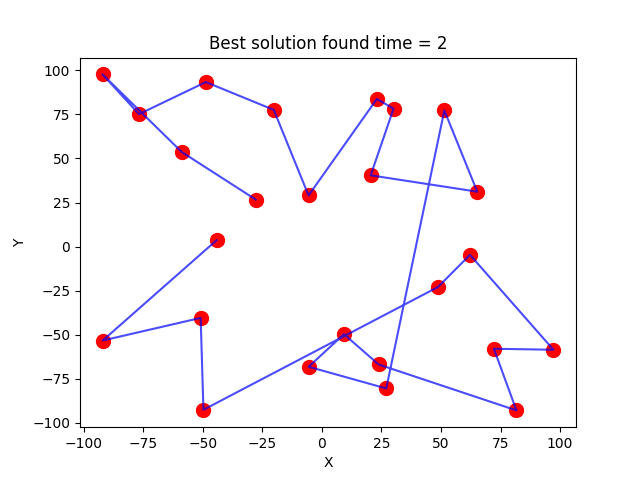
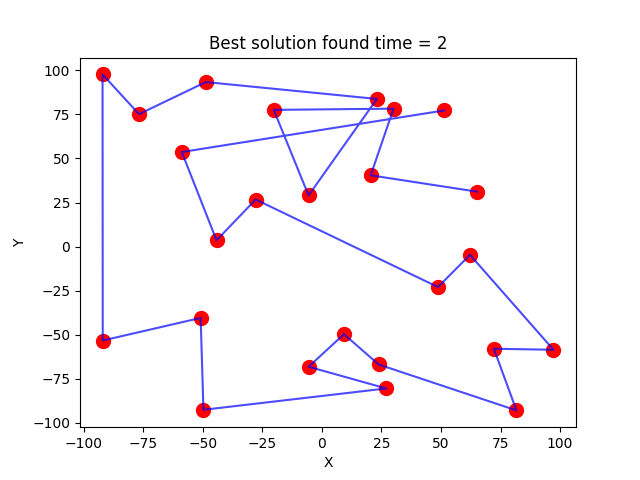
add fig with global phermone and base of report

diff --git a/HW4/Code/Q2/ACO_part_III_global_pheromone.py b/HW4/Code/Q2/ACO_part_III_global_pheromone.py
@@ -24,11 +24,17 @@ def create_graph(X, traffic):
 
 graph = create_graph(X, traffic)
 
+n_cities = len(graph)
+# Initialize pheromone
+global pheromone
+pheromone = np.ones((n_cities, n_cities))
+
 # Implementing ACO
 def ACO(graph, n_ants, n_iterations, alpha, beta, rho, Q):
+    global pheromone
     n_cities = len(graph)
     # Initialize pheromone
-    pheromone = np.ones((n_cities, n_cities))
+    # pheromone = np.ones((n_cities, n_cities))
     # Initialize best length
     best_length = np.inf
     # Initialize best solution
@@ -96,7 +102,7 @@ def plot_solution(X, best_solution):
     plt.title(f'Best solution found time = {i+1}')
     plt.xlabel('X')
     plt.ylabel('Y')
-    plt.savefig(f'../../Figure/Q2/time_varing_traffic_img_{i}.png')
+    plt.savefig(f'../../Figure/Q2/time_varing_traffic_img_gph_{i}.png')
     plt.close()
 
 for i in range(10):
@@ -107,11 +113,12 @@ for i in range(10):
     plot_solution(X, best_solution)
 
 
+
 frames = []
 for i in range(10):
-    image = imageio.v2.imread(f'../../Figure/Q2/time_varing_traffic_img_{i}.png')
+    image = imageio.v2.imread(f'../../Figure/Q2/time_varing_traffic_img_gph_{i}.png')
     frames.append(image)
 
-imageio.mimsave('../../Figure/Q2/time_varing_traffic_solution.gif', # output gif
+imageio.mimsave('../../Figure/Q2/time_varing_traffic_solution_gph.gif', # output gif
                 frames,          # array of input frames
                 fps = 1)         # optional: frames per second

diff --git a/HW4/Report/HW4.tex b/HW4/Report/HW4.tex
@@ -35,6 +35,7 @@
 	\title{تمرین سری چهارم الگوریتمهای مدرن در بهینهسازی} 
 	\author{علی بنیاسد}
 	\date{\today}
+	\input{Q1/Q1}
 	\maketitle
 	
 	

diff --git a/HW4/Report/Q1/Q1.tex b/HW4/Report/Q1/Q1.tex
@@ -1,0 +1,1 @@
+\section{سوال اول}
